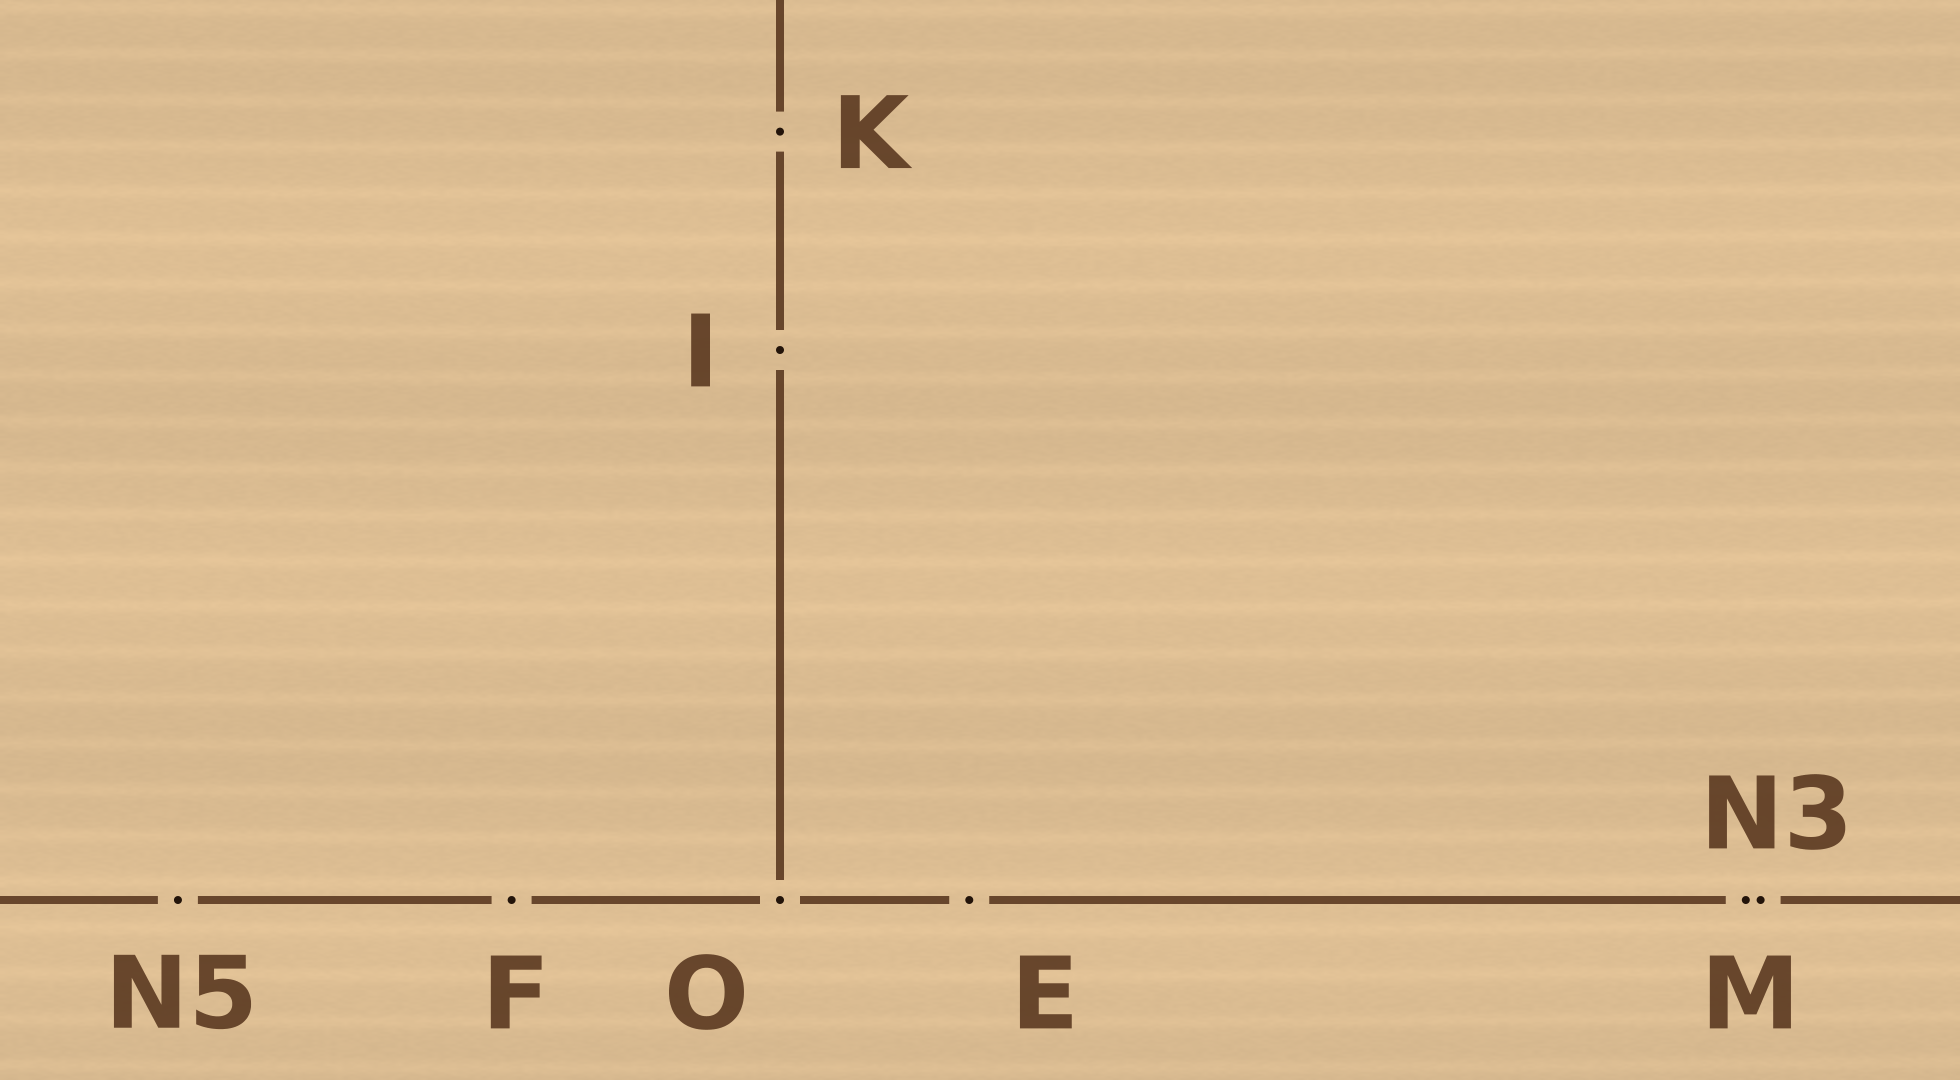
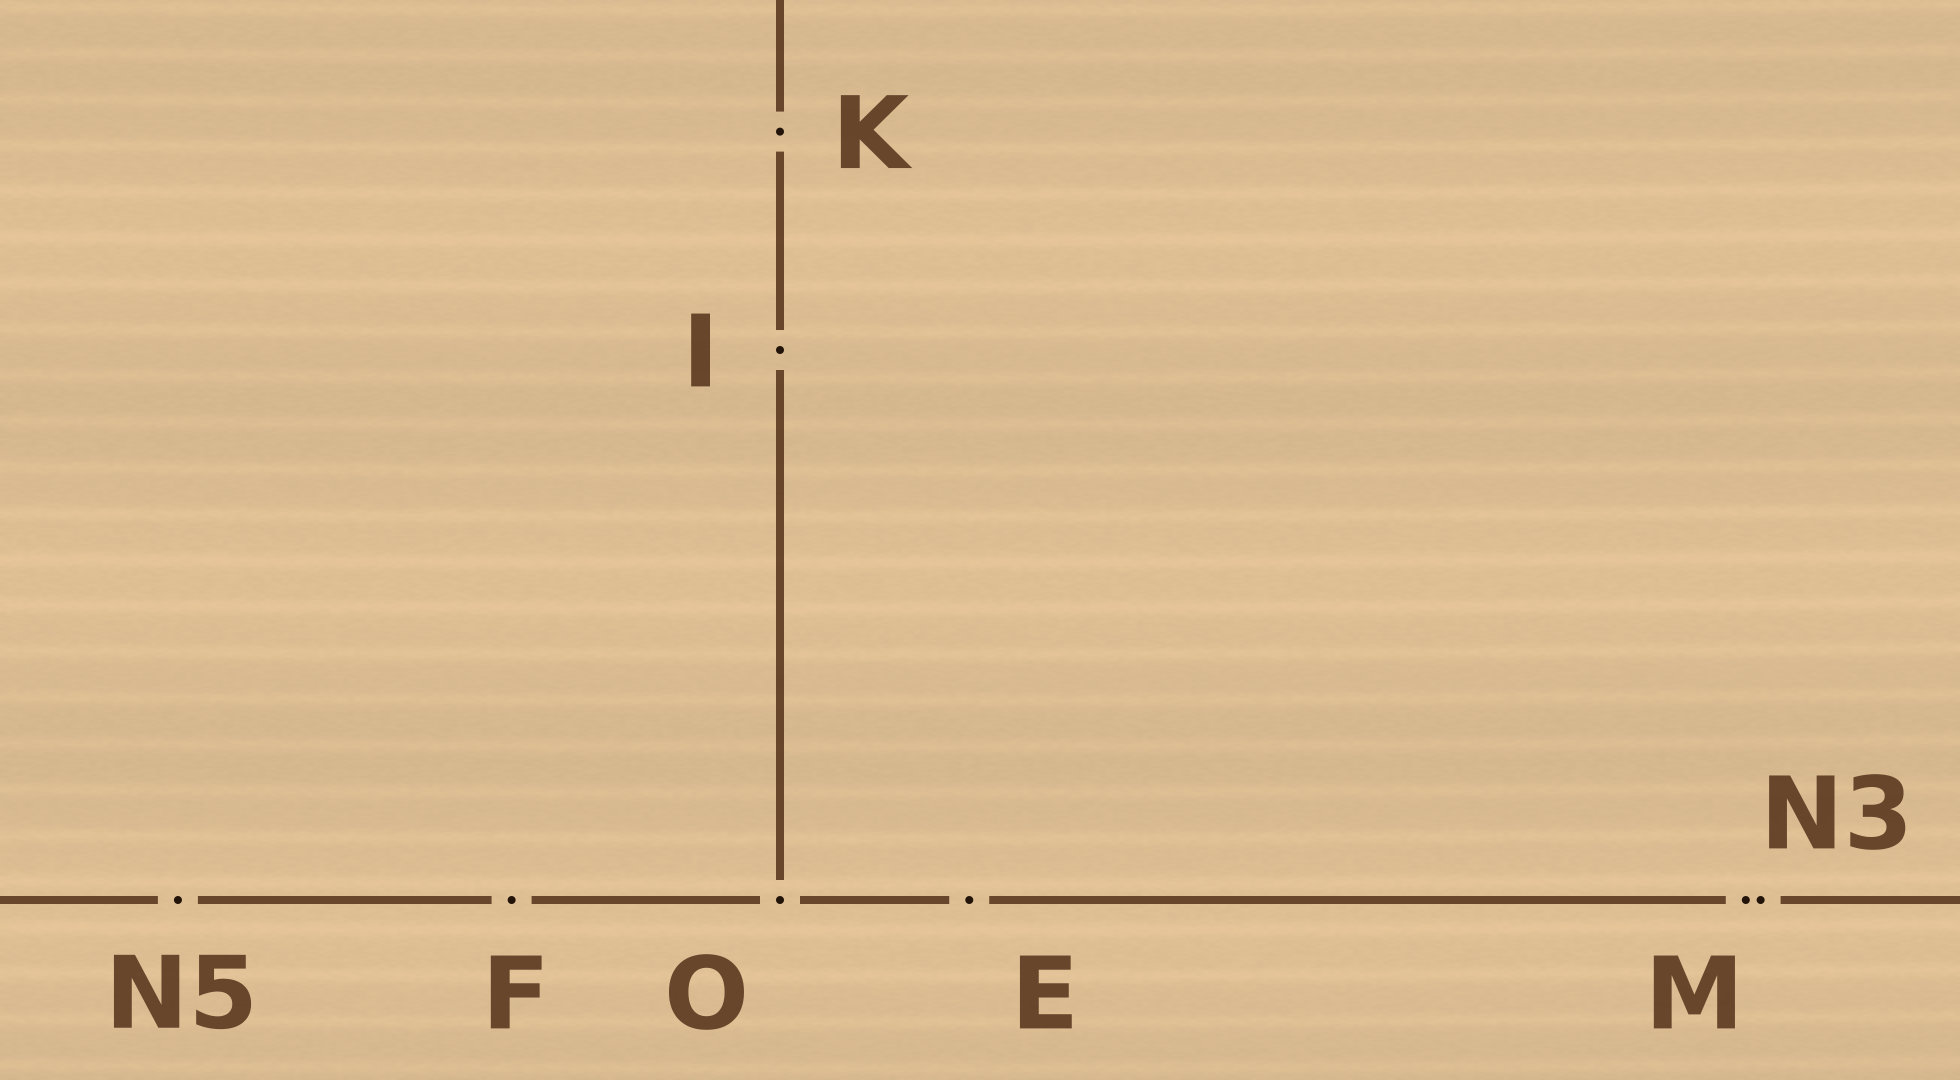
Module 1: laser board labels M and N3 on their own sides
M (the left of the two close holes) is now labelled down-left, N3 (the right
one) up-right, so each label lies entirely beyond its own hole. Previews
regenerated.

Claude-Session: https://claude.ai/code/session_016PW3zRQp6XQwwdReVqgNnk

Changed region(s): [[0.8714, 0.7028, 0.9959, 0.7944], [0.8403, 0.8861, 0.9337, 0.9472]]

diff --git a/module-01/laser-printer/make_17gon_laser.py b/module-01/laser-printer/make_17gon_laser.py
@@ -59,7 +59,7 @@ POINTS = {
     "O": (O, (-3.8, 4.6)), "A": (A, (-4.0, 4.6)), "B": (B, (-4.2, 4.0)),
     "I": (I, (-4.2, 0)), "K": (K, (4.6, 0)),
     "E": (E, (3.6, 4.6)), "F": (F, (0, 4.6)), "N5": (N5, (0, 4.6)),
-    "M": (M, (0, 4.6)), "N3": (N3, (0.6, -4.4)),
+    "M": (M, (-2.8, 4.6)), "N3": (N3, (3.6, -4.4)),       # M is the LEFT hole, N3 the RIGHT one
     "P3": (P3, (-3.6, 4.4)), "P5": (P5, (3.8, 4.4)),
 }
 
